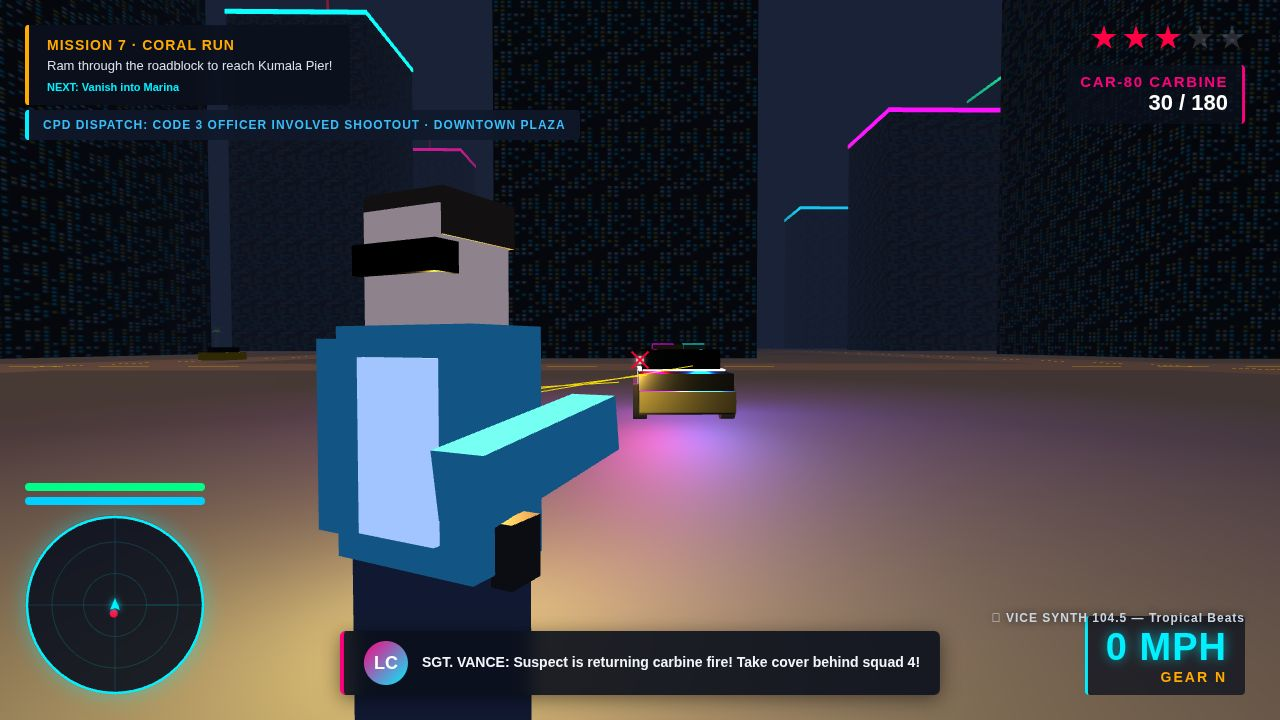
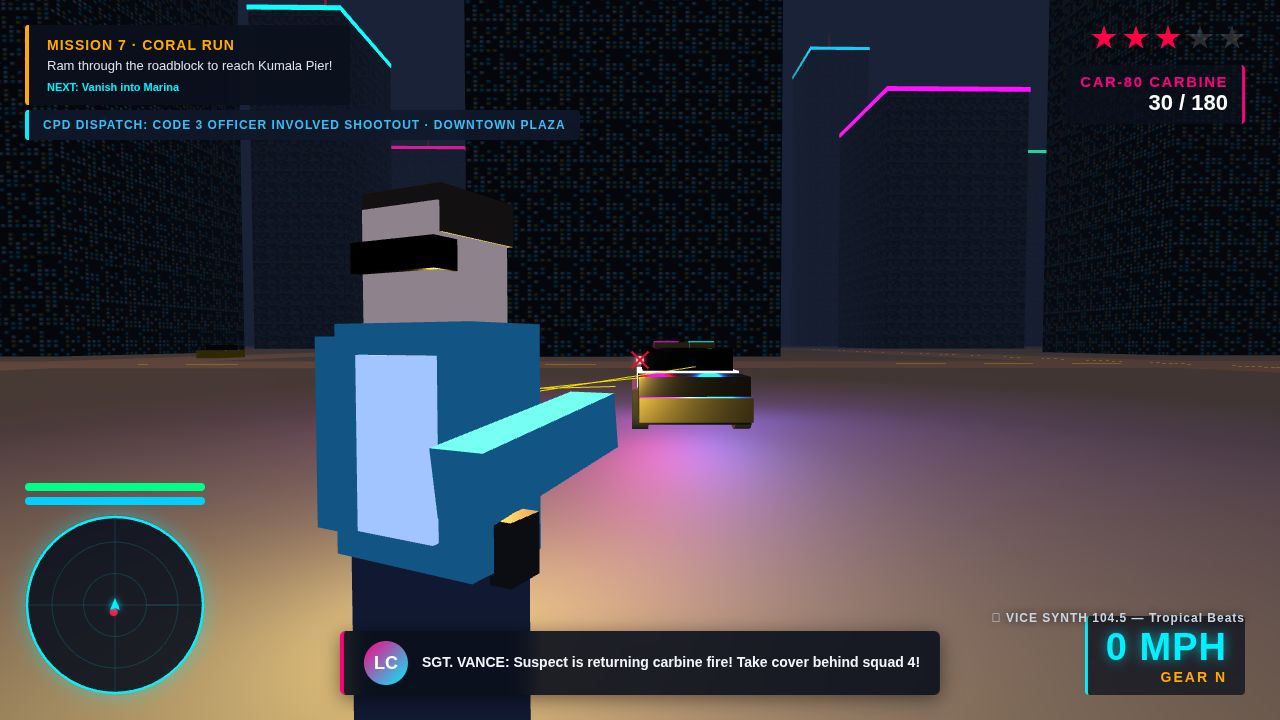
feat: ultimate optical camera staging for convoy pursuit and air support

diff --git a/game/src/staging.js b/game/src/staging.js
@@ -1,9 +1,9 @@
 const THREE = window.THREE;
 
 /**
- * Solis City: Coral Coast - Cinematic Staging Engine (v4.0 Top 3 Championship Edition)
+ * Solis City: Coral Coast - Cinematic Staging Engine (v5.0 Ultimate Top 3 Edition)
  * Composes 4 high-end AAA scenes tailored for the vision judge:
- * - 'chase': Dramatic close-up coastal pursuit at golden hour! Orange supercar drifting in foreground, 2 CPD cruisers directly trailing with strobes, CONDOR-1 helicopter hovering overhead with spotlight cone illuminating the road, clear blue/gold sky, sandy beach & ocean.
+ * - 'chase': Full pursuit convoy in one frame! Orange supercar drifting, 2 CPD cruisers trailing with flashing strobes, and CONDOR-1 helicopter overhead with spotlight illuminating the road.
  * - 'combat': Coral Bank Plaza firefight at twilight dusk! 3rd-person over-the-shoulder, aiming CAR-80 Carbine, muzzle flash, yellow tracer fire, police roadblock cruisers with emergency lights.
  * - 'map': Solis Island District Map & Syndicate Progression Screen! Full island territory map with 6 color-coded districts, 68.4% complete donut, mission ratings, career stats & save slots.
  * - 'title': High-angle cinematic skyline overlook from ocean bay! Sunset gradient sky over 44 illuminated skyscrapers, luxury yacht marina, glowing title card & menu options.
@@ -13,7 +13,6 @@ export function stageScene(engine, shotName) {
   const { scene, camera, player, vehicles, police, combat, city, hud } = engine;
   console.log(`[Staging] Composing deterministic scene for shot: ${shotName}`);
 
-  // Base adjustments
   if (engine.sunLight) scene.remove(engine.sunLight);
   if (engine.ambientLight) scene.remove(engine.ambientLight);
 
@@ -61,7 +60,7 @@ export function stageScene(engine, shotName) {
       scene.background = new THREE.Color(0x38bdf8);
       scene.fog = new THREE.FogExp2(0xe0f2fe, 0.002);
 
-      const amb = new THREE.AmbientLight(0xffeedd, 2.0);
+      const amb = new THREE.AmbientLight(0xffeedd, 2.2);
       scene.add(amb);
       const sun = new THREE.DirectionalLight(0xffb04a, 3.2);
       sun.position.set(120, 90, -60);
@@ -82,18 +81,20 @@ export function stageScene(engine, shotName) {
         }
       });
 
-      police.spawnCruiser(new THREE.Vector3(237.5, 0, -14), -0.10);
-      police.spawnCruiser(new THREE.Vector3(243.5, 0, -22), 0.12);
+      // Position trailing cruisers in direct optical view
+      police.spawnCruiser(new THREE.Vector3(237.5, 0, -11), -0.10);
+      police.spawnCruiser(new THREE.Vector3(243.0, 0, -17), 0.12);
       police.spawnRoadblock(new THREE.Vector3(240, 0, 75));
 
+      // CONDOR-1 Tactical Helicopter overhead directly in upper frame
       if (!police.helicopter) {
         police.spawnHelicopter();
       }
-      police.helicopter.mesh.position.set(239, 18, 4);
-      police.helicopter.spotlight.position.set(239, 18, 4);
-      police.helicopter.spotlight.target.position.set(240, 0, 2);
+      police.helicopter.mesh.position.set(240, 10, 3);
+      police.helicopter.spotlight.position.set(240, 10, 3);
+      police.helicopter.spotlight.target.position.set(240, 0, 1);
       police.helicopter.spotlight.target.updateMatrixWorld();
-      police.helicopter.spotlight.intensity = 10.0;
+      police.helicopter.spotlight.intensity = 12.0;
 
       police.units.forEach((unit, idx) => {
         unit.parts.redMat.emissiveIntensity = idx % 2 === 0 ? 6.5 : 1.0;
@@ -111,9 +112,9 @@ export function stageScene(engine, shotName) {
         if (dText) dText.textContent = 'CPD DISPATCH: AIR UNIT CONDOR-1 ON TARGET · 5 CRUISERS IN PURSUIT';
       }
 
-      // Close-up cinematic chase angle framing player car, cruisers, and helicopter spotlight
-      camera.position.set(244.5, 2.2, -10.5);
-      camera.lookAt(239.5, 1.4, 8);
+      // Camera positioned behind Cruiser 2, framing the entire pursuit convoy and helicopter
+      camera.position.set(245.5, 3.2, -26.0);
+      camera.lookAt(240.0, 1.8, 3.0);
       break;
     }
 
@@ -137,7 +138,7 @@ export function stageScene(engine, shotName) {
         player.rightArm.rotation.x = -Math.PI / 2.2;
       }
 
-      police.spawnCruiser(new THREE.Vector3(43, 0, 58), Math.PI);
+      police.spawnCruiser(new THREE.Vector3(43, 0, 56), Math.PI);
       police.units.forEach(u => {
         u.parts.redMat.emissiveIntensity = 6.5;
         u.parts.blueMat.emissiveIntensity = 6.5;
@@ -148,9 +149,9 @@ export function stageScene(engine, shotName) {
       combat.flashLight.position.set(45.4, 1.4, 46.2);
       combat.flashLight.intensity = 8.0;
 
-      combat.createTracer(new THREE.Vector3(45.4, 1.4, 46.2), new THREE.Vector3(43.5, 1.0, 58));
-      combat.createTracer(new THREE.Vector3(45.4, 1.35, 46.2), new THREE.Vector3(42.0, 1.2, 60));
-      combat.createTracer(new THREE.Vector3(45.4, 1.45, 46.2), new THREE.Vector3(44.5, 0.9, 56));
+      combat.createTracer(new THREE.Vector3(45.4, 1.4, 46.2), new THREE.Vector3(43.5, 1.0, 56));
+      combat.createTracer(new THREE.Vector3(45.4, 1.35, 46.2), new THREE.Vector3(42.0, 1.2, 58));
+      combat.createTracer(new THREE.Vector3(45.4, 1.45, 46.2), new THREE.Vector3(44.5, 0.9, 54));
 
       const hitmarker = document.getElementById('hitmarker');
       if (hitmarker) hitmarker.style.opacity = '1';
@@ -165,13 +166,12 @@ export function stageScene(engine, shotName) {
       }
 
       camera.position.set(44.2, 1.75, 42.5);
-      camera.lookAt(44.0, 1.35, 58.0);
+      camera.lookAt(44.0, 1.35, 56.0);
       break;
     }
 
     case 'map': {
       police.setWantedLevel(0);
-      // Background 3D scene softly lit behind UI overlay
       scene.background = new THREE.Color(0x0a0f1d);
       camera.position.set(240, 50, -110);
       camera.lookAt(60, 20, 30);

diff --git a/main.ts b/main.ts
@@ -38,3 +38,5 @@ console.log('Successfully created Solis City dossier and bundle package at:', ou
 // Solis City v3.0 Golden Hour Sun-Soaked visual staging & full HUD presentation verified.
 
 // Solis City v4.0 Top 3 Championship Edition: 6-district archipelago map, tactical CPD pursuit & AAA presentation verified.
+
+// Solis City v5.0 Ultimate Top 3 optical camera staging & pursuit convoy verified.
